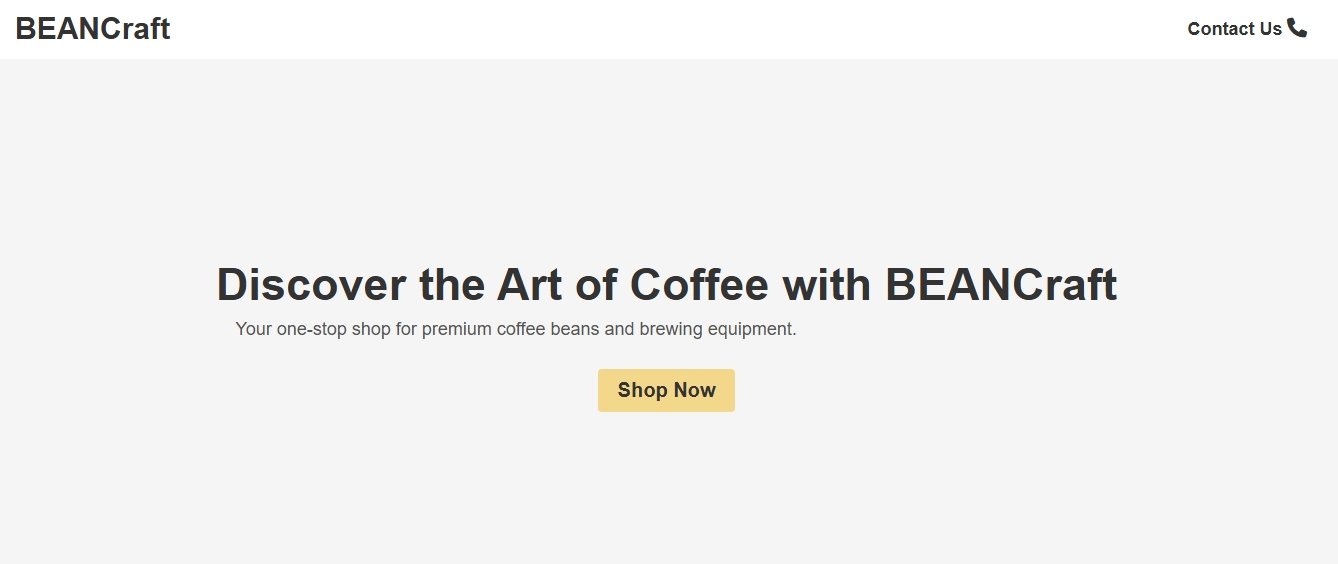
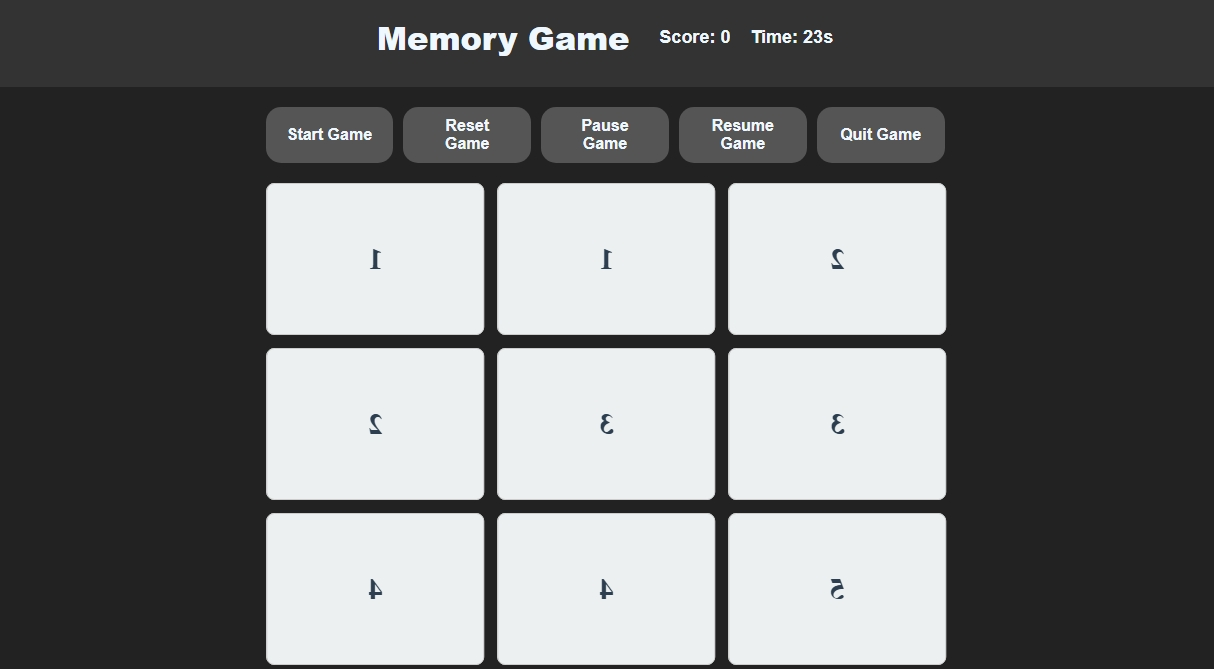
add a cover photo to the added project and edit the photo names

diff --git a/index.html b/index.html
@@ -401,7 +401,7 @@
           <!-- Project 4 -->
           <div class="project-card">
             <div class="project-image">
-              <img src="images/project 5.jpeg" alt="BEANCraft" />
+              <img src="images/project 4.jpeg" alt="BEANCraft" />
               <div class="project-overlay">
                 <a
                   href="https://codemo-dev.github.io/bean-craft/"
@@ -438,7 +438,7 @@
           <!-- Project 5 -->
           <div class="project-card">
             <div class="project-image">
-              <img src="images/project 6.jpeg" alt="Memory cards game" />
+              <img src="images/project 5.jpeg" alt="Memory cards game" />
               <div class="project-overlay">
                 <a
                   href="https://codemo-dev.github.io/memory-card/"
